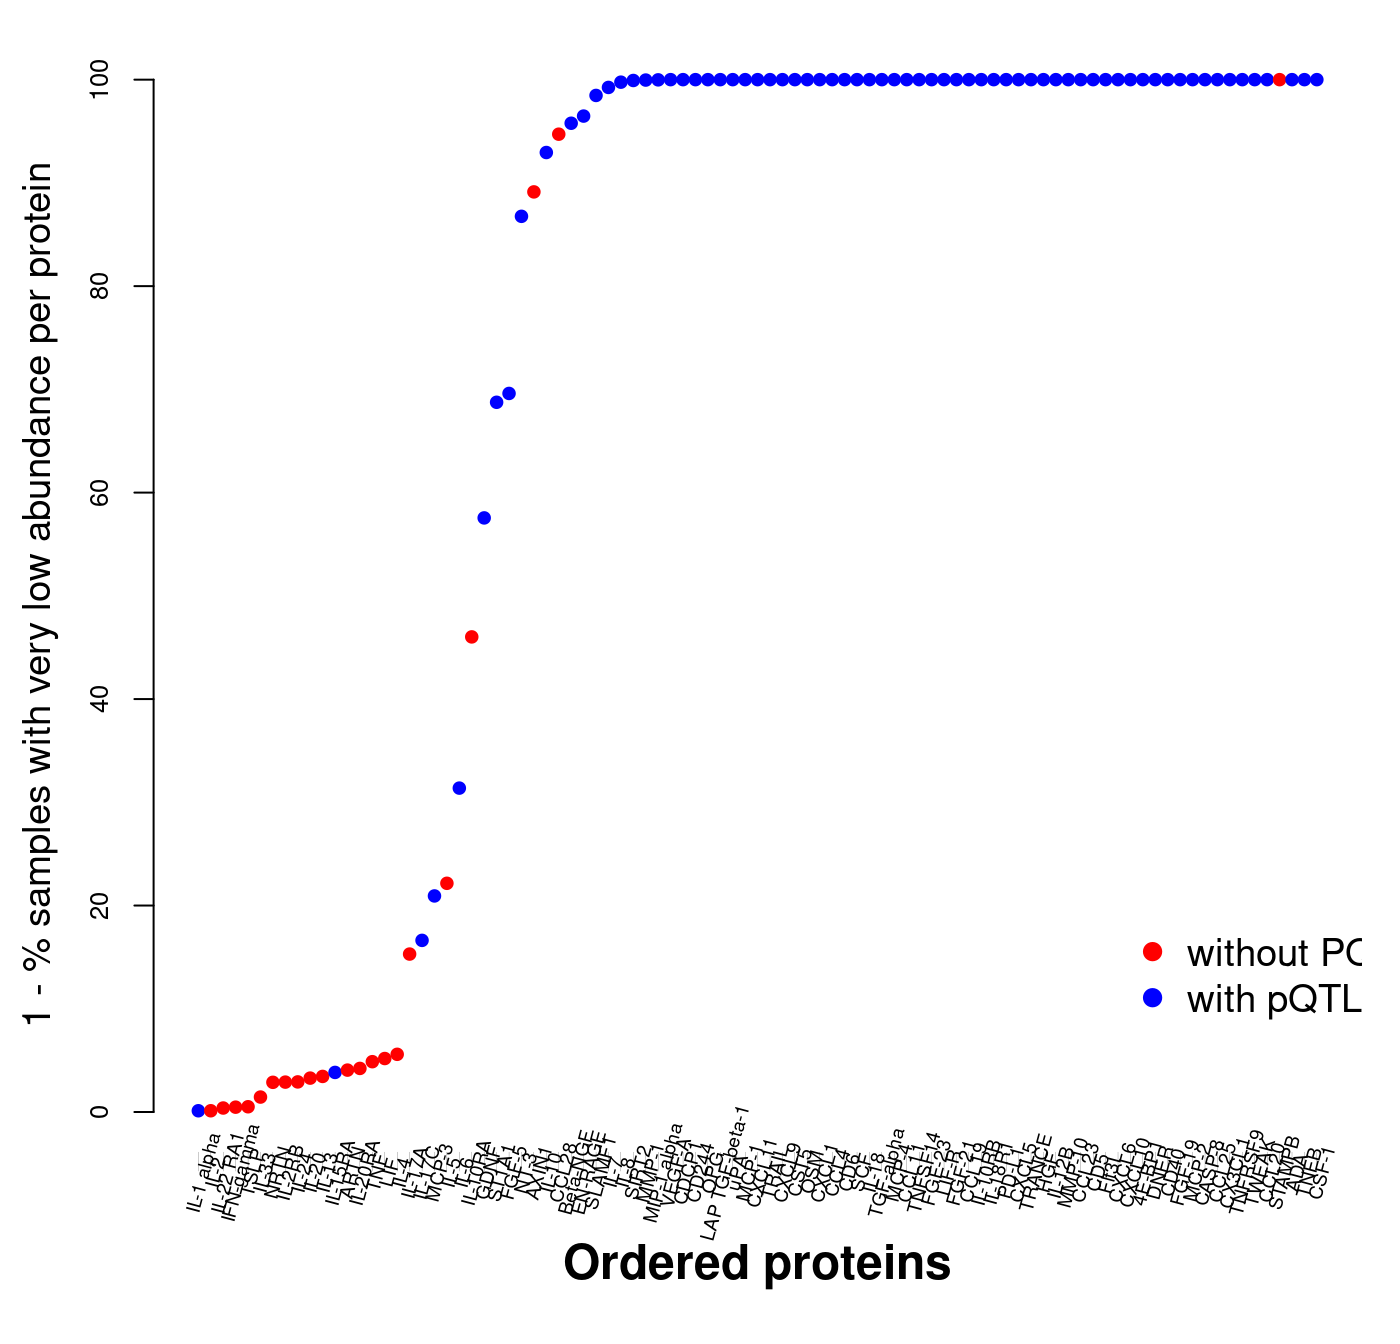
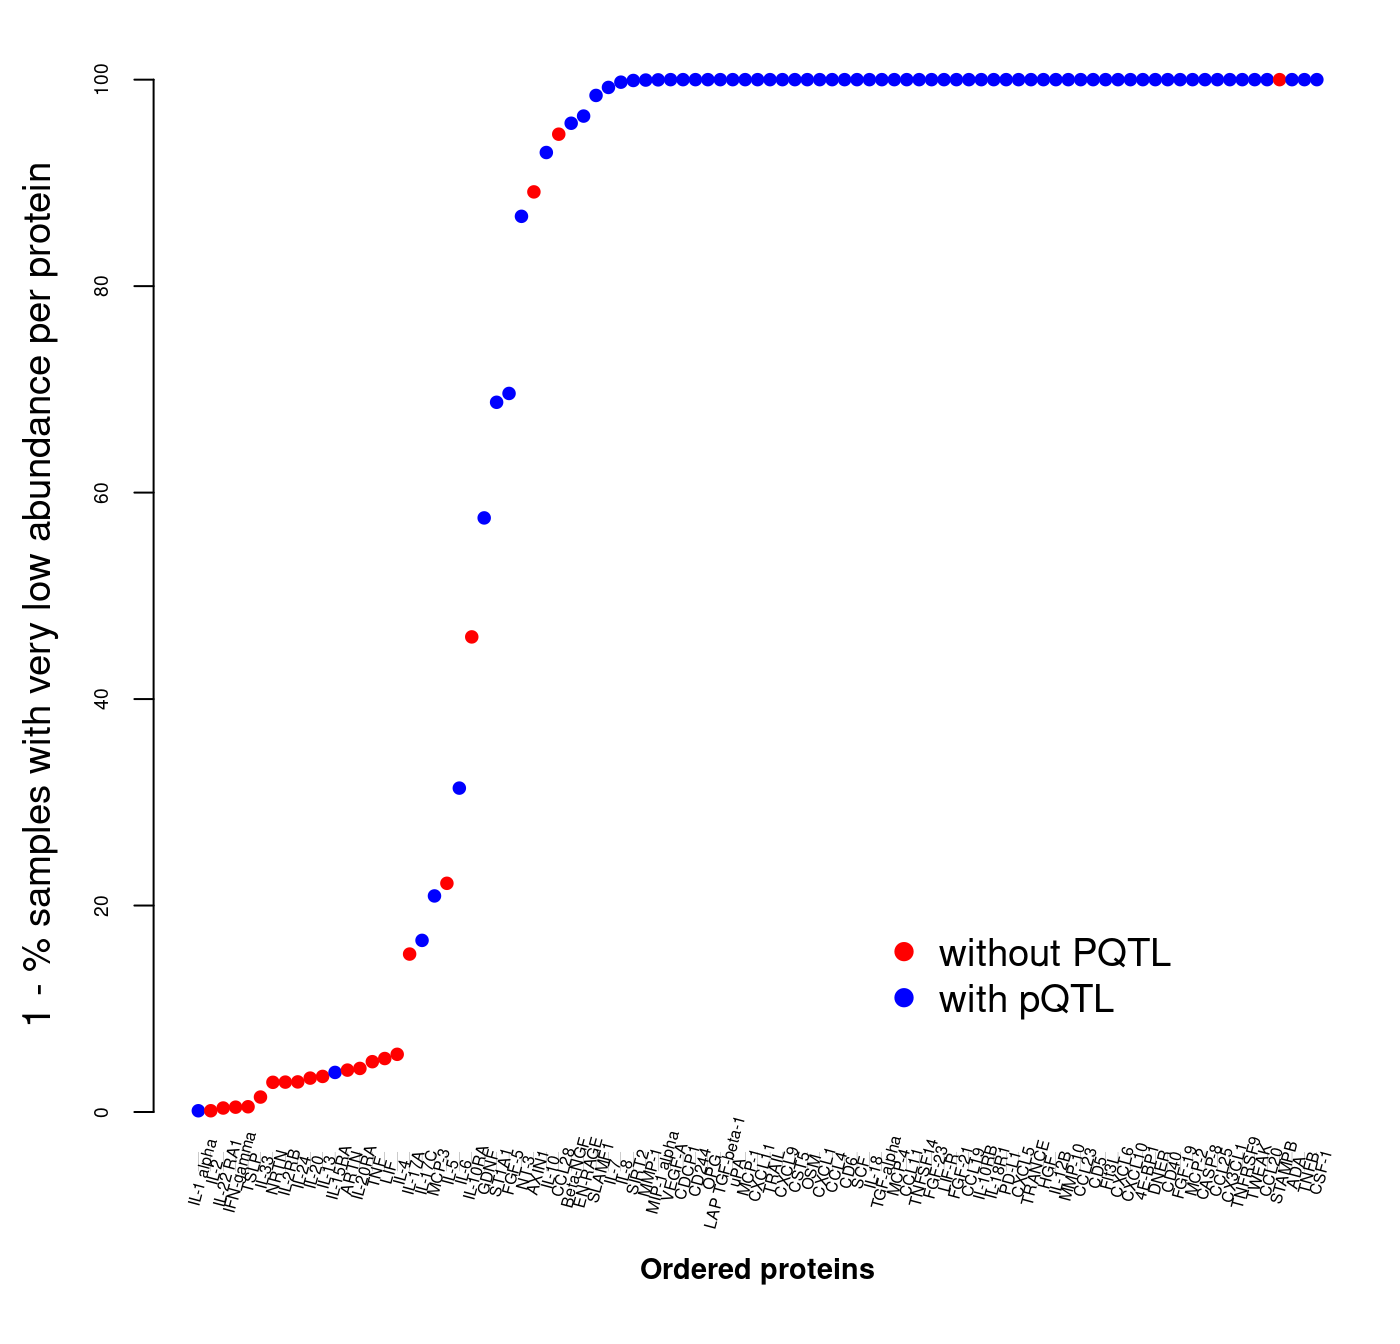
docs

diff --git a/docs/articles/es.html b/docs/articles/es.html
@@ -613,15 +613,15 @@ and therefore pQTL detection as is shown with a real example.</p>
 <span><span class="va">annot</span> <span class="op">&lt;-</span> <span class="fu"><a href="https://rdrr.io/r/base/with.html" class="external-link">within</a></span><span class="op">(</span><span class="va">annot</span>,<span class="op">{</span><span class="va">prot</span><span class="op">=</span><span class="fu"><a href="https://rdrr.io/r/base/grep.html" class="external-link">gsub</a></span><span class="op">(</span><span class="st">"^[0-9]*_"</span>,<span class="st">""</span>,<span class="va">olink.id</span><span class="op">)</span><span class="op">}</span><span class="op">)</span></span>
 <span><span class="fu"><a href="https://rdrr.io/r/graphics/par.html" class="external-link">par</a></span><span class="op">(</span>mar<span class="op">=</span><span class="fu"><a href="https://rdrr.io/r/base/c.html" class="external-link">c</a></span><span class="op">(</span><span class="fl">5</span>,<span class="fl">4</span>,<span class="fl">1</span>,<span class="fl">1</span><span class="op">)</span><span class="op">)</span></span>
 <span><span class="kw"><a href="https://rdrr.io/r/base/attach.html" class="external-link">attach</a></span><span class="op">(</span><span class="va">annot</span><span class="op">)</span></span>
-<span><span class="fu"><a href="https://rdrr.io/r/graphics/plot.default.html" class="external-link">plot</a></span><span class="op">(</span><span class="fl">100</span><span class="op">-</span><span class="va">pc.belowLOD.new</span>,cex<span class="op">=</span><span class="fl">0.8</span>,pch<span class="op">=</span><span class="fl">19</span>,col<span class="op">=</span><span class="va">pQTL</span>,axes<span class="op">=</span><span class="cn">FALSE</span>, xlab<span class="op">=</span><span class="st">""</span>, ylab<span class="op">=</span><span class="st">""</span>, cex.lab<span class="op">=</span><span class="fl">2</span><span class="op">)</span></span>
+<span><span class="fu"><a href="https://rdrr.io/r/graphics/plot.default.html" class="external-link">plot</a></span><span class="op">(</span><span class="fl">100</span><span class="op">-</span><span class="va">pc.belowLOD.new</span>,cex<span class="op">=</span><span class="fl">0.8</span>,pch<span class="op">=</span><span class="fl">19</span>,col<span class="op">=</span><span class="va">pQTL</span>,axes<span class="op">=</span><span class="cn">FALSE</span>, xlab<span class="op">=</span><span class="st">""</span>, ylab<span class="op">=</span><span class="st">""</span>, cex.lab<span class="op">=</span><span class="fl">0.8</span><span class="op">)</span></span>
 <span><span class="va">xy</span> <span class="op">&lt;-</span> <span class="fu"><a href="https://rdrr.io/r/grDevices/xy.coords.html" class="external-link">xy.coords</a></span><span class="op">(</span><span class="fl">100</span><span class="op">-</span><span class="va">pc.belowLOD.new</span><span class="op">)</span></span>
 <span><span class="va">xtick</span> <span class="op">&lt;-</span> <span class="fu"><a href="https://rdrr.io/r/base/seq.html" class="external-link">seq</a></span><span class="op">(</span><span class="fl">1</span>, <span class="fu"><a href="https://rdrr.io/r/base/nrow.html" class="external-link">nrow</a></span><span class="op">(</span><span class="va">annot</span><span class="op">)</span><span class="op">)</span></span>
 <span><span class="fu"><a href="https://rdrr.io/r/graphics/axis.html" class="external-link">axis</a></span><span class="op">(</span><span class="fl">1</span>, at<span class="op">=</span><span class="va">xtick</span>, labels <span class="op">=</span> <span class="cn">FALSE</span>, lwd.tick<span class="op">=</span><span class="fl">0.1</span>, lwd<span class="op">=</span><span class="fl">0</span><span class="op">)</span></span>
-<span><span class="fu"><a href="https://rdrr.io/r/graphics/axis.html" class="external-link">axis</a></span><span class="op">(</span><span class="fl">2</span>, cex.axis<span class="op">=</span><span class="fl">0.8</span><span class="op">)</span></span>
-<span><span class="fu"><a href="https://rdrr.io/r/graphics/text.html" class="external-link">text</a></span><span class="op">(</span>x<span class="op">=</span><span class="va">xtick</span>, <span class="fu"><a href="https://rdrr.io/r/graphics/par.html" class="external-link">par</a></span><span class="op">(</span><span class="st">"usr"</span><span class="op">)</span><span class="op">[</span><span class="fl">3</span><span class="op">]</span>,labels <span class="op">=</span> <span class="va">prot</span>, srt <span class="op">=</span> <span class="fl">75</span>, pos <span class="op">=</span> <span class="fl">1</span>, xpd <span class="op">=</span> <span class="cn">TRUE</span>, cex<span class="op">=</span><span class="fl">0.6</span><span class="op">)</span></span>
+<span><span class="fu"><a href="https://rdrr.io/r/graphics/axis.html" class="external-link">axis</a></span><span class="op">(</span><span class="fl">2</span>, cex.axis<span class="op">=</span><span class="fl">0.6</span><span class="op">)</span></span>
+<span><span class="fu"><a href="https://rdrr.io/r/graphics/text.html" class="external-link">text</a></span><span class="op">(</span>x<span class="op">=</span><span class="va">xtick</span>, <span class="fu"><a href="https://rdrr.io/r/graphics/par.html" class="external-link">par</a></span><span class="op">(</span><span class="st">"usr"</span><span class="op">)</span><span class="op">[</span><span class="fl">3</span><span class="op">]</span>,labels <span class="op">=</span> <span class="va">prot</span>, srt <span class="op">=</span> <span class="fl">75</span>, pos <span class="op">=</span> <span class="fl">1</span>, xpd <span class="op">=</span> <span class="cn">TRUE</span>, cex<span class="op">=</span><span class="fl">0.5</span><span class="op">)</span></span>
 <span><span class="fu"><a href="https://rdrr.io/r/graphics/mtext.html" class="external-link">mtext</a></span><span class="op">(</span><span class="st">"1 - % samples with very low abundance per protein"</span>,side<span class="op">=</span><span class="fl">2</span>,line<span class="op">=</span><span class="fl">2.5</span>,cex<span class="op">=</span><span class="fl">1.2</span><span class="op">)</span></span>
-<span><span class="fu"><a href="https://rdrr.io/r/graphics/mtext.html" class="external-link">mtext</a></span><span class="op">(</span><span class="st">"Ordered proteins"</span>,side<span class="op">=</span><span class="fl">1</span>,line<span class="op">=</span><span class="fl">2.5</span>,cex<span class="op">=</span><span class="fl">1.5</span>,font<span class="op">=</span><span class="fl">2</span><span class="op">)</span></span>
-<span><span class="fu"><a href="https://rdrr.io/r/graphics/legend.html" class="external-link">legend</a></span><span class="op">(</span>x<span class="op">=</span><span class="fl">75</span>,y<span class="op">=</span><span class="fl">20</span>,<span class="fu"><a href="https://rdrr.io/r/base/c.html" class="external-link">c</a></span><span class="op">(</span><span class="st">"without PQTL"</span>,<span class="st">"with pQTL"</span><span class="op">)</span>,box.lwd<span class="op">=</span><span class="fl">0</span>,cex<span class="op">=</span><span class="fl">1.2</span>,col<span class="op">=</span><span class="fu"><a href="https://rdrr.io/r/base/c.html" class="external-link">c</a></span><span class="op">(</span><span class="st">"red"</span>,<span class="st">"blue"</span><span class="op">)</span>,pch<span class="op">=</span><span class="fl">19</span><span class="op">)</span></span></code></pre></div>
+<span><span class="fu"><a href="https://rdrr.io/r/graphics/mtext.html" class="external-link">mtext</a></span><span class="op">(</span><span class="st">"Ordered proteins"</span>,side<span class="op">=</span><span class="fl">1</span>,line<span class="op">=</span><span class="fl">2.5</span>,cex<span class="op">=</span><span class="fl">0.9</span>,font<span class="op">=</span><span class="fl">2</span><span class="op">)</span></span>
+<span><span class="fu"><a href="https://rdrr.io/r/graphics/legend.html" class="external-link">legend</a></span><span class="op">(</span>x<span class="op">=</span><span class="fl">55</span>,y<span class="op">=</span><span class="fl">20</span>,<span class="fu"><a href="https://rdrr.io/r/base/c.html" class="external-link">c</a></span><span class="op">(</span><span class="st">"without PQTL"</span>,<span class="st">"with pQTL"</span><span class="op">)</span>,box.lwd<span class="op">=</span><span class="fl">0</span>,cex<span class="op">=</span><span class="fl">1.2</span>,col<span class="op">=</span><span class="fu"><a href="https://rdrr.io/r/base/c.html" class="external-link">c</a></span><span class="op">(</span><span class="st">"red"</span>,<span class="st">"blue"</span><span class="op">)</span>,pch<span class="op">=</span><span class="fl">19</span><span class="op">)</span></span></code></pre></div>
 <p><img src="es/lod-1.png" width="700" style="display:block; margin: auto"></p>
 <div class="sourceCode" id="cb12"><pre class="downlit sourceCode r">
 <code class="sourceCode R"><span><span class="kw"><a href="https://rdrr.io/r/base/detach.html" class="external-link">detach</a></span><span class="op">(</span><span class="va">annot</span><span class="op">)</span></span>
